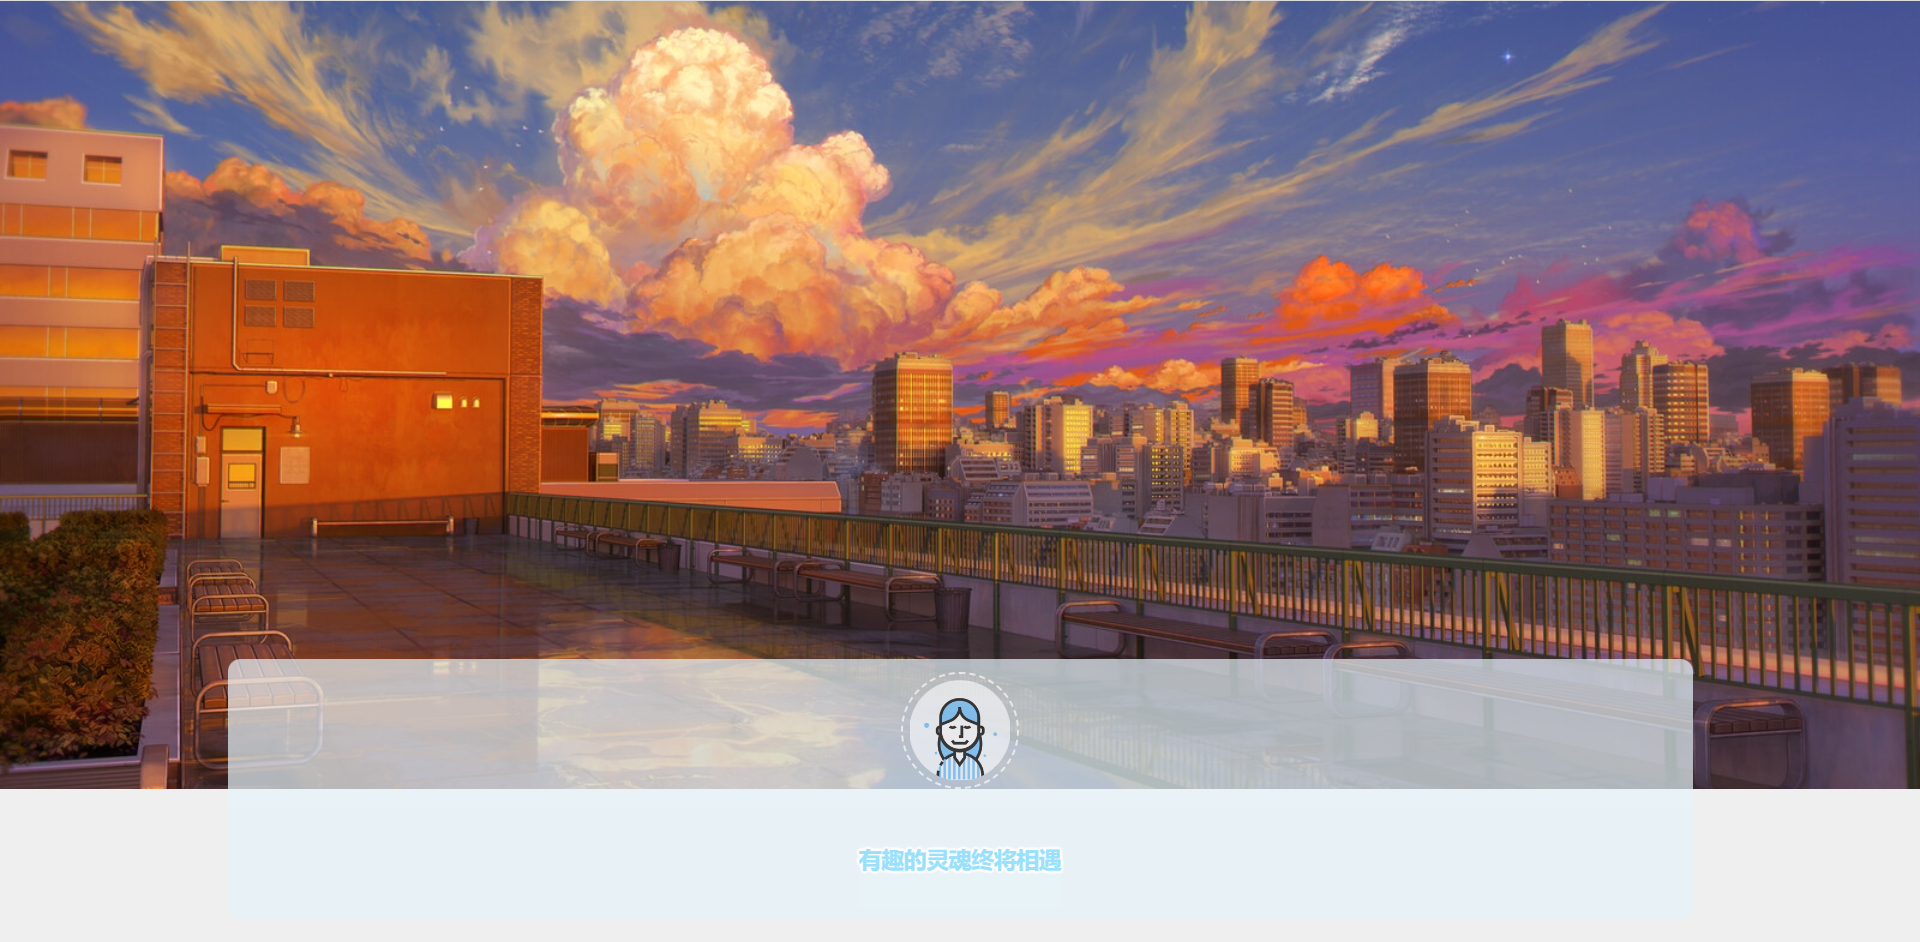
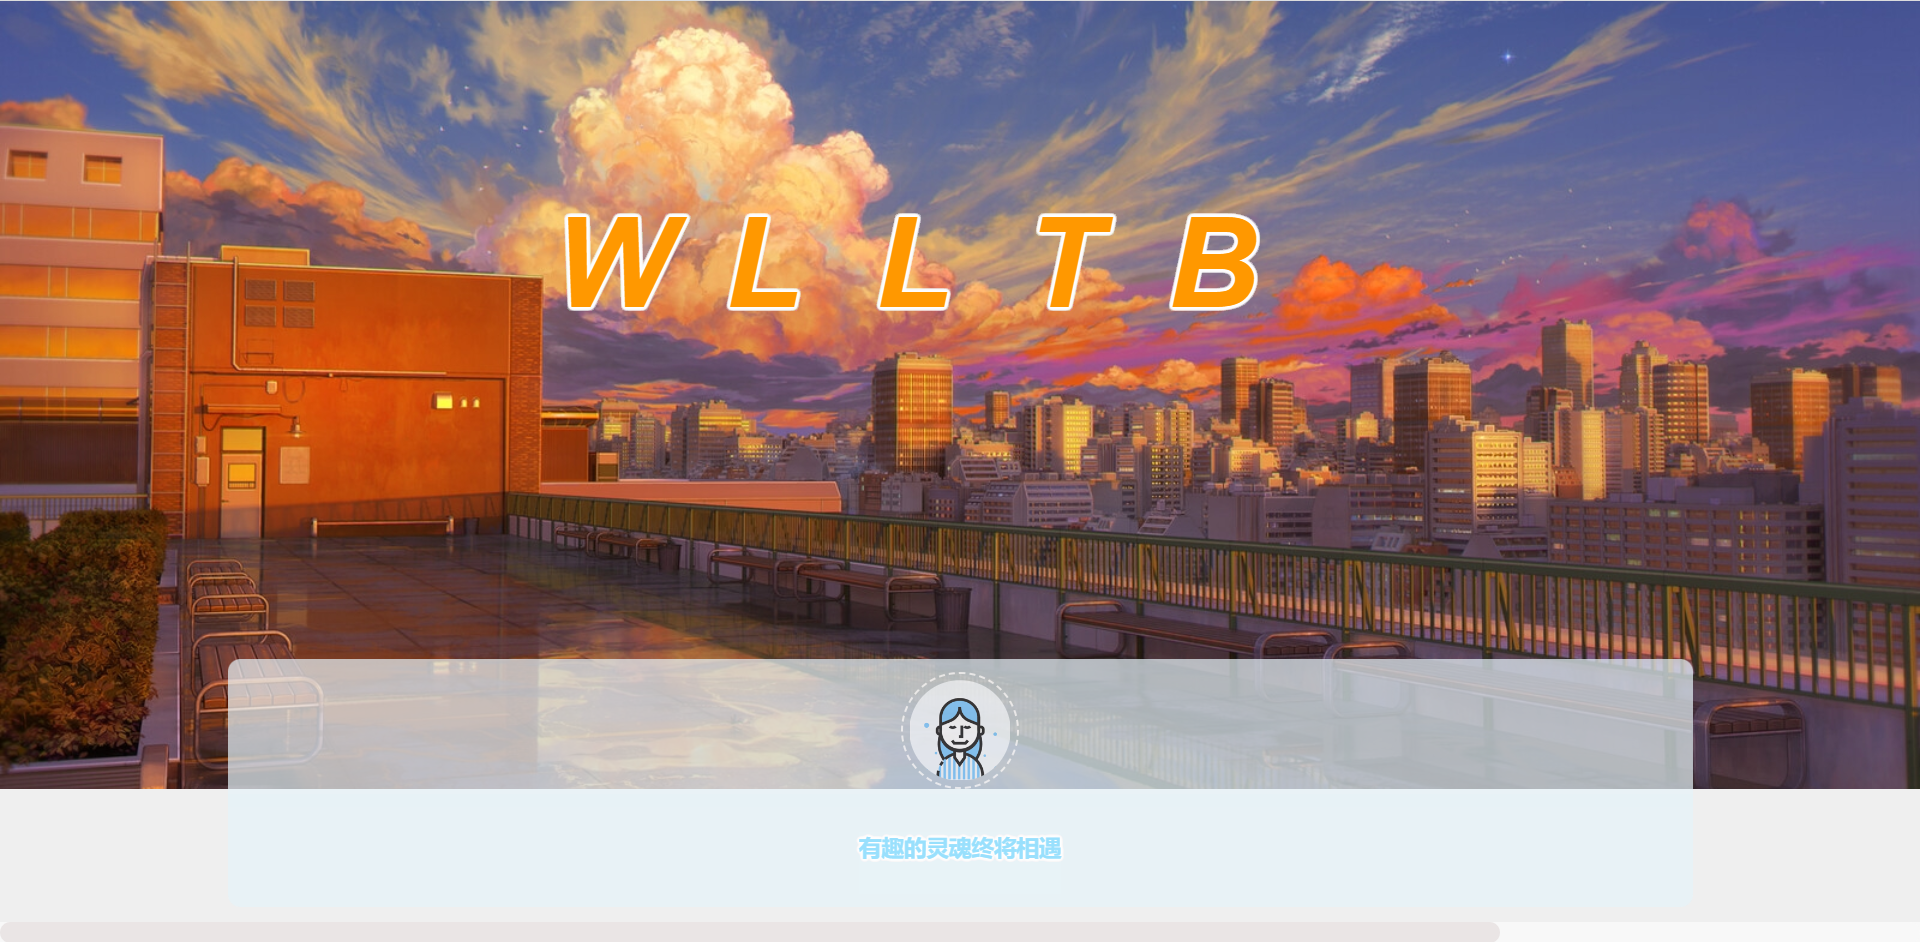
【项目代码】首页添加logo文字，抽取样式文件

Changed region(s): [[0.2812, 0.2155, 0.5, 0.3386], [0.5312, 0.2155, 0.6562, 0.3386], [0.4375, 0.8928, 0.5625, 0.9236]]

diff --git a/src/assets/app.css b/src/assets/app.css
@@ -1,0 +1,70 @@
+.header-title {
+    color: #ff9800;
+    font-size: 100px;
+    font-weight: bolder;
+    text-shadow: 0 0 3px #fff, 0 0 3px #fff, 0 0 3px #fff, 0 0 3px #fff, 0 0 3px #fff, 0 0 3px #fff, 0 0 3px #fff, 0 0 3px #fff, 0 0 3px #fff, 0 0 3px #fff, 0 0 3px #fff, 0 0 3px #fff, 0 0 3px #fff, 0 0 3px #fff, 0 0 3px #fff, 0 0 3px #fff, 0 0 3px #fff, 0 0 3px #fff, 0 0 3px #fff, 0 0 3px #fff, 0 0 3px #fff, 0 0 3px #fff, 0 0 3px #fff, 0 0 3px #fff, 0 0 3px #fff, 0 0 3px #fff, 0 0 3px #fff, 0 0 3px #fff, 0 0 3px #fff, 0 0 3px #fff, 0 0 3px #fff, 0 0 3px #fff, 0 0 3px #fff, 0 0 3px #fff, 0 0 3px #fff, 0 0 3px #fff, 0 0 3px #fff, 0 0 3px #fff, 0 0 3px #fff, 0 0 3px #fff, 0 0 3px #fff, 0 0 3px #fff, 0 0 3px #fff, 0 0 3px #fff, 0 0 3px #fff, 0 0 3px #fff, 0 0 3px #fff;
+}
+
+.header-info {
+    left: 28%;
+    position: relative;
+    top:-600px;
+}
+
+.header-avator {
+    text-align: center;
+    margin: auto;
+    top: -106px;
+    width: 75%;
+    padding: 10px;
+    font-size: 16px;
+    opacity: .88;
+    background: rgba(230, 244, 249, .8);
+    z-index: 1;
+    animation: b 1s ease-out;
+    position: relative;
+    border-radius: 10px 10px 0 0;
+}
+
+.header-text {
+    text-align: center;
+    margin: auto;
+    top: -236px;
+    width: 75%;
+    padding: 10px;
+    font-size: 16px;
+    opacity: .98;
+    background-color: #e8f2f6;
+    z-index: 1;
+    animation: b 1s ease-out;
+    position: relative;
+    border-radius: 0 0 10px 10px;
+}
+
+.menu {
+    width: 100%;
+    position: absolute;
+    top: 0;
+    color: #FFFFFF;
+}
+
+.header-img {
+    width: 100%;
+    height: 630px;
+}
+
+.site-master-description {
+    margin: 20px auto 0 auto;
+    font-size: 18px;
+    height: 50px;
+    font-weight: 700;
+    display: inline-block;
+    color: #97dffd;
+    background-color: #e8f3f7;
+    -webkit-touch-callout: none;
+    -webkit-user-select: none;
+    -moz-user-select: none;
+    -ms-user-select: none;
+    user-select: none;
+    text-shadow: 0 0 3px #fff, 0 0 3px #fff, 0 0 3px #fff, 0 0 3px #fff, 0 0 3px #fff, 0 0 3px #fff, 0 0 3px #fff, 0 0 3px #fff, 0 0 3px #fff, 0 0 3px #fff, 0 0 3px #fff, 0 0 3px #fff, 0 0 3px #fff, 0 0 3px #fff, 0 0 3px #fff, 0 0 3px #fff, 0 0 3px #fff, 0 0 3px #fff, 0 0 3px #fff, 0 0 3px #fff, 0 0 3px #fff, 0 0 3px #fff, 0 0 3px #fff, 0 0 3px #fff, 0 0 3px #fff, 0 0 3px #fff, 0 0 3px #fff, 0 0 3px #fff, 0 0 3px #fff, 0 0 3px #fff, 0 0 3px #fff, 0 0 3px #fff, 0 0 3px #fff, 0 0 3px #fff, 0 0 3px #fff, 0 0 3px #fff, 0 0 3px #fff, 0 0 3px #fff, 0 0 3px #fff, 0 0 3px #fff, 0 0 3px #fff, 0 0 3px #fff, 0 0 3px #fff, 0 0 3px #fff, 0 0 3px #fff, 0 0 3px #fff, 0 0 3px #fff;
+}

diff --git a/src/assets/blog.css b/src/assets/blog.css
@@ -37,52 +37,6 @@
     margin-top: 10px;
 }
 
-.header-avator {
-    text-align: center;
-    margin: auto;
-    top: -106px;
-    width: 75%;
-    padding: 10px;
-    font-size: 16px;
-    opacity: .88;
-    background: rgba(230, 244, 249, .8);
-    z-index: 1;
-    animation: b 1s ease-out;
-    position: relative;
-    border-radius: 10px 10px 0 0;
-}
-
-.header-text {
-    text-align: center;
-    margin: auto;
-    top: -106px;
-    width: 75%;
-    padding: 10px;
-    font-size: 16px;
-    opacity: .98;
-    background-color: #e8f2f6;
-    z-index: 1;
-    animation: b 1s ease-out;
-    position: relative;
-    border-radius: 0 0 10px 10px;
-}
-
-.site-master-description {
-    margin: 20px auto 0 auto;
-    font-size: 18px;
-    height: 50px;
-    font-weight: 700;
-    display: inline-block;
-    color: #97dffd;
-    background-color: #e8f3f7;
-    -webkit-touch-callout: none;
-    -webkit-user-select: none;
-    -moz-user-select: none;
-    -ms-user-select: none;
-    user-select: none;
-    text-shadow: 0 0 3px #fff, 0 0 3px #fff, 0 0 3px #fff, 0 0 3px #fff, 0 0 3px #fff, 0 0 3px #fff, 0 0 3px #fff, 0 0 3px #fff, 0 0 3px #fff, 0 0 3px #fff, 0 0 3px #fff, 0 0 3px #fff, 0 0 3px #fff, 0 0 3px #fff, 0 0 3px #fff, 0 0 3px #fff, 0 0 3px #fff, 0 0 3px #fff, 0 0 3px #fff, 0 0 3px #fff, 0 0 3px #fff, 0 0 3px #fff, 0 0 3px #fff, 0 0 3px #fff, 0 0 3px #fff, 0 0 3px #fff, 0 0 3px #fff, 0 0 3px #fff, 0 0 3px #fff, 0 0 3px #fff, 0 0 3px #fff, 0 0 3px #fff, 0 0 3px #fff, 0 0 3px #fff, 0 0 3px #fff, 0 0 3px #fff, 0 0 3px #fff, 0 0 3px #fff, 0 0 3px #fff, 0 0 3px #fff, 0 0 3px #fff, 0 0 3px #fff, 0 0 3px #fff, 0 0 3px #fff, 0 0 3px #fff, 0 0 3px #fff, 0 0 3px #fff;
-}
-
 .avator {
     width: 80px;
     height: 80px;

diff --git a/src/components/MenuBar.vue b/src/components/MenuBar.vue
@@ -1,47 +1,9 @@
 <template>
-<!--  <el-menu-->
-<!--      :default-active='activeIndex'-->
-<!--      class='el-menu-demo'-->
-<!--      mode='horizontal'-->
-<!--      text-color='#fff'-->
-<!--      active-text-color='#ffd04b'-->
-<!--      @select='handleSelect'-->
-<!--  >-->
-<!--    <div class='flex'>-->
-<!--      <el-menu-item index='index'>-->
-<!--        首页-->
-<!--      </el-menu-item>-->
-<!--      <el-menu-item index='video'>-->
-<!--        短视频-->
-<!--      </el-menu-item>-->
-<!--      <el-sub-menu index='info'>-->
-<!--        <template #title>个人信息</template>-->
-<!--        <el-menu-item index='logout'>退出登录</el-menu-item>-->
-<!--      </el-sub-menu>-->
-<!--      <div class='flex-item-right'>-->
-<!--        <el-space>-->
-<!--          <el-input placeholder='搜索文章' clearable/>&nbsp;-->
-<!--          <el-button type='primary' :icon='Search'>搜索</el-button>-->
-<!--        </el-space>-->
-<!--      </div>-->
-<!--    </div>-->
-<!--  </el-menu>-->
-  <div>
+  <div class='flex'>
+
   </div>
 </template>
 
 <script setup>
-import {Search} from '@element-plus/icons-vue';
-
-const activeIndex = 'index';
-const handleSelect = (key, keyPath) => {
-  console.log(key, keyPath);
-};
-
+import '../assets/menu.css';
 </script>
-
-<style scoped>
-.el-menu-demo {
-
-}
-</style>

diff --git a/src/App.vue b/src/App.vue
@@ -3,6 +3,8 @@ import {RouterView} from 'vue-router';
 import MenuBar from './components/MenuBar.vue';
 import img from './assets/bg.jpg';
 import {onMounted} from 'vue';
+import './assets/app.css';
+const TITLE = 'WLLTB';
 
 onMounted(() => {
   document.body.style.setProperty('--el-color-primary', '#3447C0');
@@ -19,6 +21,11 @@ onMounted(() => {
         <img src='https://cube.elemecdn.com/0/88/03b0d39583f48206768a7534e55bcpng.png' class='avator'/>
       </a>
     </div>
+    <div class='header-info'>
+      <el-icon v-for='str in TITLE' size='120'>
+        <div class='header-title'>{{str}}</div>
+      </el-icon>
+    </div>
     <div class='header-text'>
       <h2 class='site-master-description'>有趣的灵魂终将相遇</h2>
     </div>
@@ -28,15 +35,5 @@ onMounted(() => {
 </template>
 
 <style scoped>
-.menu {
-  width: 100%;
-  position: absolute;
-  top: 0;
-  color: #FFFFFF;
-}
 
-.header-img {
-  width: 100%;
-  height: 630px;
-}
 </style>

diff --git a/src/assets/main.css b/src/assets/main.css
@@ -9,7 +9,7 @@
     justify-content: center;
 }
 
-.flex-space-between{
+.flex-space-between {
     display: flex;
     align-items: center;
     justify-content: space-between;
@@ -70,18 +70,14 @@
 }
 
 .bg {
-    z-index:-1;
+    z-index: -1;
     position: absolute;
     width: 100%;
     top: 0;
     bottom: 0;
 }
 
-.front{
-    z-index:1;
+.front {
+    z-index: 1;
     position: absolute;
 }
-
-/*body {*/
-/*    transition: all 0.5s;*/
-/*}*/
